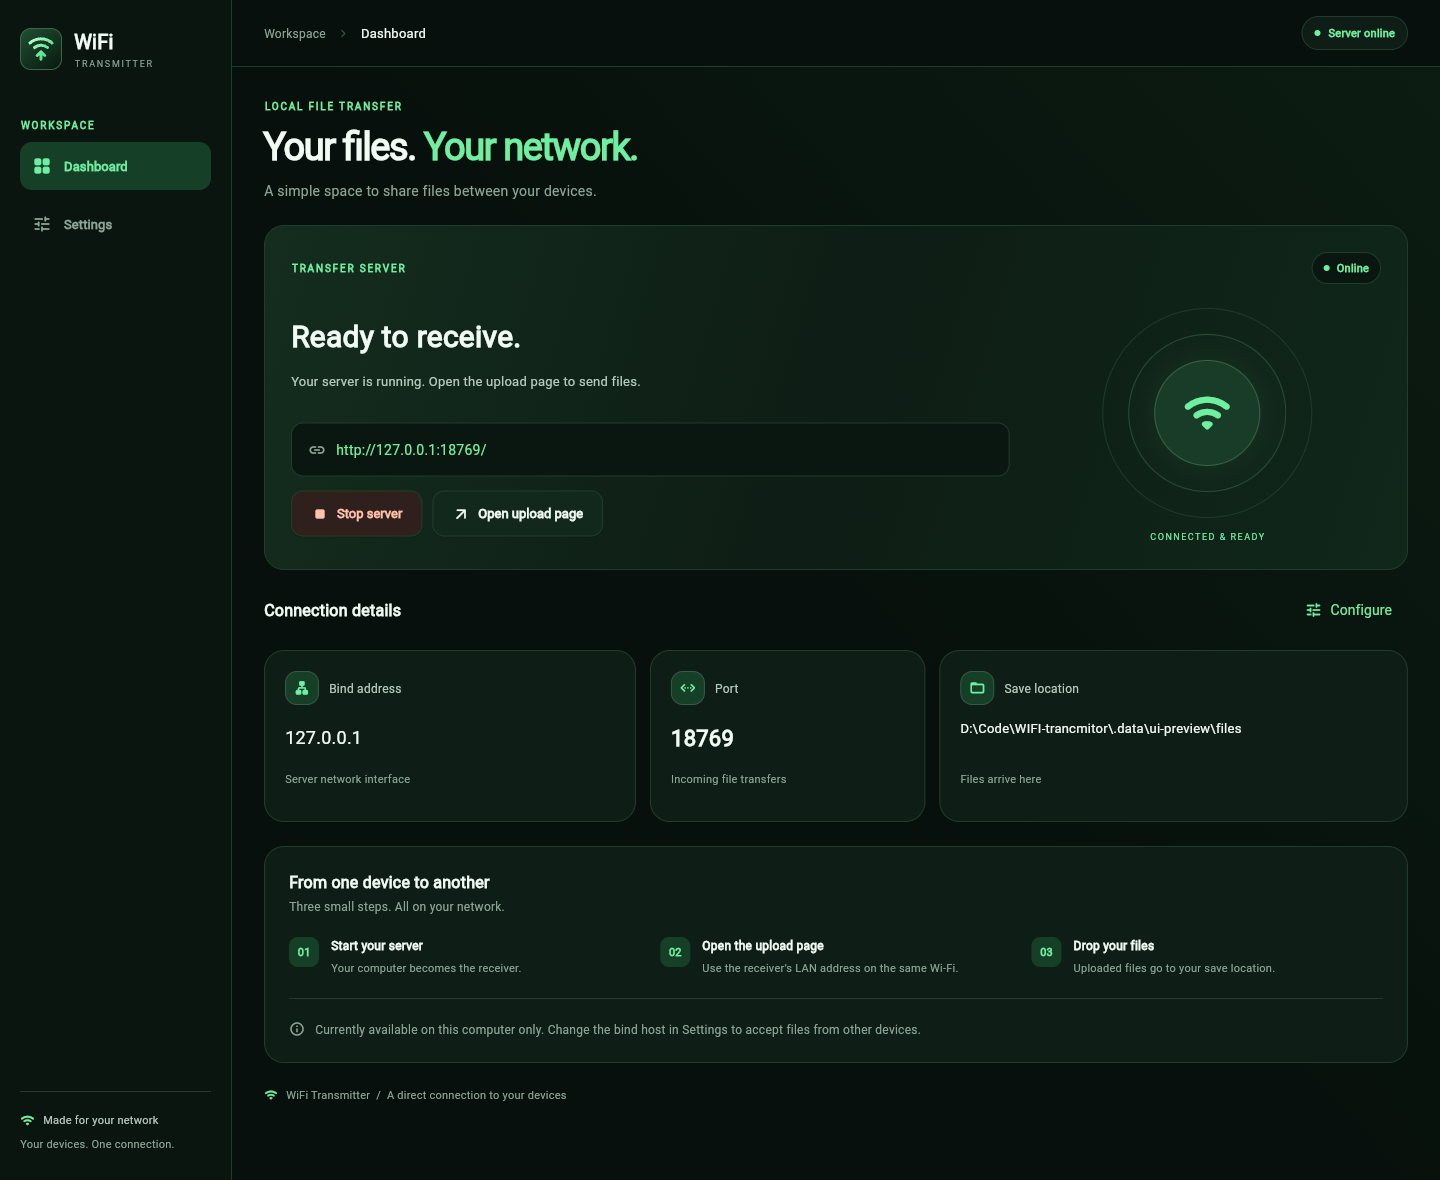
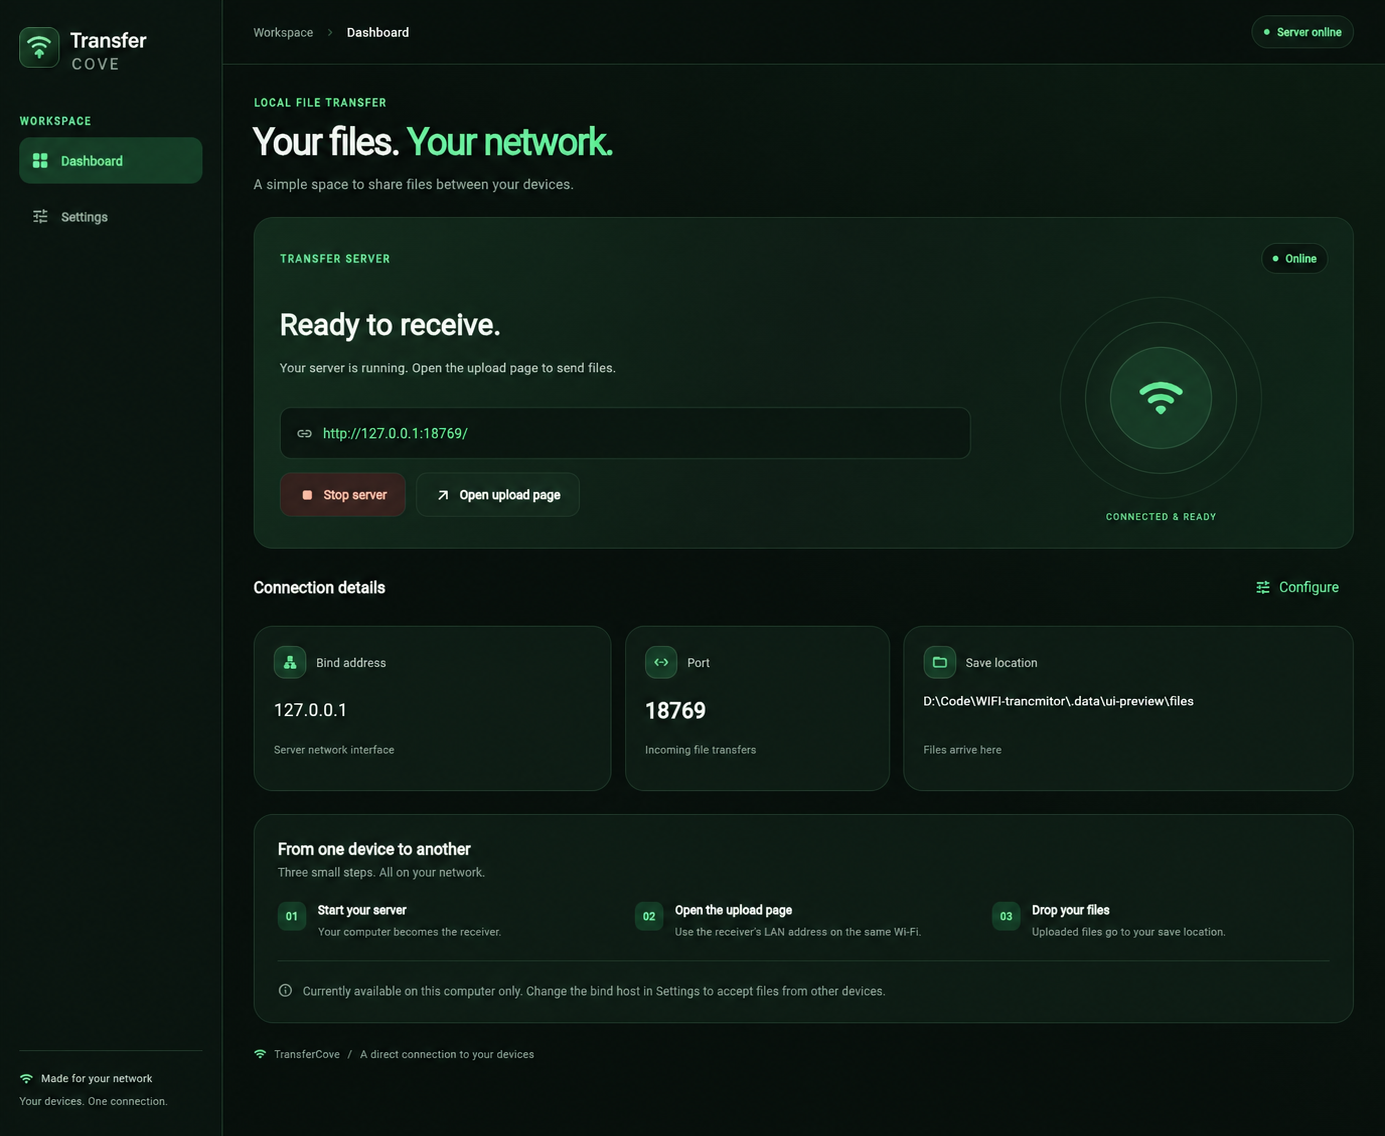
feat(showcase): rebrand site as TransferCove

diff --git a/index.html b/index.html
@@ -4,22 +4,22 @@
     <meta charset="utf-8">
     <meta name="viewport" content="width=device-width, initial-scale=1">
     <meta name="theme-color" content="#07100c">
-    <meta name="description" content="WiFi Transmitter is a local-first file transfer app for sending files over your own network.">
-    <meta property="og:title" content="WiFi Transmitter — your files, your network">
+    <meta name="description" content="TransferCove is a local-first file transfer app for sending files over your own network.">
+    <meta property="og:title" content="TransferCove — your files, your network">
     <meta property="og:description" content="A calm, private way to move files between devices on the same Wi-Fi network.">
     <meta property="og:type" content="website">
     <link rel="icon" type="image/png" href="assets/favicon.png">
     <link rel="preload" href="assets/icon.svg" as="image" type="image/svg+xml">
     <link rel="stylesheet" href="styles.css">
     <script defer src="script.js"></script>
-    <title>WiFi Transmitter — your files, your network</title>
+    <title>TransferCove — your files, your network</title>
   </head>
   <body>
     <div class="site-shell">
       <header class="topbar" id="top">
-        <a class="brand" href="#top" aria-label="WiFi Transmitter home">
+        <a class="brand" href="#top" aria-label="TransferCove home">
           <span class="brand-mark"><img src="assets/icon.svg" alt=""></span>
-          <span>WiFi <strong>Transmitter</strong></span>
+          <span>Transfer<strong>Cove</strong></span>
         </a>
         <nav class="nav-links" aria-label="Primary navigation">
           <a href="#features">Features</a>
@@ -37,7 +37,7 @@
           <div class="hero-copy">
             <div class="eyebrow"><span class="pulse-dot"></span> Local-first file transfer <span class="eyebrow-divider">/</span> v0.2.0</div>
             <h1 id="hero-title">Your files.<br><span>Your network.</span></h1>
-            <p class="hero-lede">WiFi Transmitter moves files between devices over the Wi-Fi you already trust. Control the receiver from a focused desktop app, then send from any browser.</p>
+            <p class="hero-lede">TransferCove moves files between devices over the Wi-Fi you already trust. Control the receiver from a focused desktop app, then send from any browser.</p>
             <div class="hero-actions">
               <a class="button button-primary" href="https://github.com/AlexZha-dev/WIFI-trancmitor/releases" target="_blank" rel="noreferrer">
                 <span>Open release page</span><span class="button-arrow" aria-hidden="true">↗</span>
@@ -53,7 +53,7 @@
             <div class="demo-window">
               <div class="window-bar">
                 <div class="window-controls" aria-hidden="true"><span></span><span></span><span></span></div>
-                <span class="window-title">WiFi Transmitter <span>/ upload</span></span>
+                <span class="window-title">TransferCove <span>/ upload</span></span>
                 <span class="window-status"><i></i> Online</span>
               </div>
               <div class="demo-body">
@@ -94,7 +94,7 @@
         </section>
 
         <section class="content-section page-width" id="features" aria-labelledby="features-title">
-          <div class="section-intro"><span class="section-number">01</span><div><span class="eyebrow">The useful part</span><h2 id="features-title">A small tool with a clear job.</h2></div><p>WiFi Transmitter keeps the hand-off between your devices visible, local, and uncomplicated.</p></div>
+          <div class="section-intro"><span class="section-number">01</span><div><span class="eyebrow">The useful part</span><h2 id="features-title">A small tool with a clear job.</h2></div><p>TransferCove keeps the hand-off between your devices visible, local, and uncomplicated.</p></div>
           <div class="feature-grid">
             <article class="feature-card feature-card-large"><span class="feature-index">01</span><span class="feature-icon icon-desktop">▣</span><h3>A calm desktop control center</h3><p>Start or stop the receiver, check the address, and choose where incoming files should land.</p><a href="#preview">Explore the interface <span aria-hidden="true">↗</span></a><div class="feature-illustration desktop-illustration"><span class="illustration-sidebar"></span><span class="illustration-line line-one"></span><span class="illustration-line line-two"></span><span class="illustration-card"></span><span class="illustration-toggle"></span></div></article>
             <article class="feature-card"><span class="feature-index">02</span><span class="feature-icon">↑</span><h3>Any browser can send</h3><p>No companion app on the phone or second computer. Open a local link and drop files in.</p><div class="feature-stat"><strong>0</strong><span>extra apps<br>to install</span></div></article>
@@ -105,7 +105,7 @@
         <section class="content-section how-section page-width" id="how-it-works" aria-labelledby="how-title">
           <div class="section-intro"><span class="section-number">02</span><div><span class="eyebrow">Three quiet steps</span><h2 id="how-title">From desktop to done.</h2></div><p>Designed for the moment when you just need a file on the other device — without handing it to a third party.</p></div>
           <div class="steps-grid">
-            <article class="step-card"><span class="step-number">01</span><h3>Start the receiver</h3><p>Launch WiFi Transmitter on the computer that should receive the files.</p><span class="step-line"></span><span class="step-caption">Desktop app</span></article>
+            <article class="step-card"><span class="step-number">01</span><h3>Start the receiver</h3><p>Launch TransferCove on the computer that should receive the files.</p><span class="step-line"></span><span class="step-caption">Desktop app</span></article>
             <article class="step-card"><span class="step-number">02</span><h3>Open the local link</h3><p>Use the shown address on a phone, tablet, or another computer on the same Wi-Fi.</p><span class="step-line"></span><span class="step-caption">Any modern browser</span></article>
             <article class="step-card"><span class="step-number">03</span><h3>Send and watch</h3><p>Drop files, start the queue, and see exactly when each transfer finishes.</p><span class="step-line"></span><span class="step-caption">Saved on the receiver</span></article>
           </div>
@@ -114,9 +114,9 @@
         <section class="preview-section page-width" id="preview" aria-labelledby="preview-title">
           <div class="preview-heading"><div><span class="eyebrow">A closer look</span><h2 id="preview-title">One visual language.<br><span>Two interfaces.</span></h2></div><p>Dark green surfaces, bright status signals, and enough breathing room to keep the important bits obvious.</p></div>
           <div class="screenshots">
-            <a class="screenshot screenshot-main" href="docs/images/dashboard.png"><img src="docs/images/dashboard.png" alt="WiFi Transmitter desktop dashboard"></a>
-            <a class="screenshot" href="docs/images/upload.png"><img src="docs/images/upload.png" alt="WiFi Transmitter browser upload page"></a>
-            <a class="screenshot screenshot-mobile" href="docs/images/upload-mobile.png"><img src="docs/images/upload-mobile.png" alt="WiFi Transmitter upload page on a mobile screen"></a>
+            <a class="screenshot screenshot-main" href="docs/images/dashboard.png"><img src="docs/images/dashboard.png" alt="TransferCove desktop dashboard"></a>
+            <a class="screenshot" href="docs/images/upload.png"><img src="docs/images/upload.png" alt="TransferCove browser upload page"></a>
+            <a class="screenshot screenshot-mobile" href="docs/images/upload-mobile.png"><img src="docs/images/upload-mobile.png" alt="TransferCove upload page on a mobile screen"></a>
           </div>
         </section>
 
@@ -128,7 +128,7 @@
         </section>
       </main>
 
-      <footer class="footer page-width"><a class="brand footer-brand" href="#top"><span class="brand-mark"><img src="assets/icon.svg" alt=""></span><span>WiFi <strong>Transmitter</strong></span></a><span class="footer-copy">Your files. Your network.</span><div class="footer-links"><a href="https://github.com/AlexZha-dev/WIFI-trancmitor" target="_blank" rel="noreferrer">GitHub <span aria-hidden="true">↗</span></a><a href="#top">Back to top ↑</a></div><span class="footer-year">© <span id="year"></span></span></footer>
+      <footer class="footer page-width"><a class="brand footer-brand" href="#top"><span class="brand-mark"><img src="assets/icon.svg" alt=""></span><span>Transfer<strong>Cove</strong></span></a><span class="footer-copy">Your files. Your network.</span><div class="footer-links"><a href="https://github.com/AlexZha-dev/WIFI-trancmitor" target="_blank" rel="noreferrer">GitHub <span aria-hidden="true">↗</span></a><a href="#top">Back to top ↑</a></div><span class="footer-year">© <span id="year"></span></span></footer>
     </div>
     <noscript><div class="noscript-note">This page is fully readable without JavaScript. The upload panel is an interactive visual demo only.</div></noscript>
   </body>
